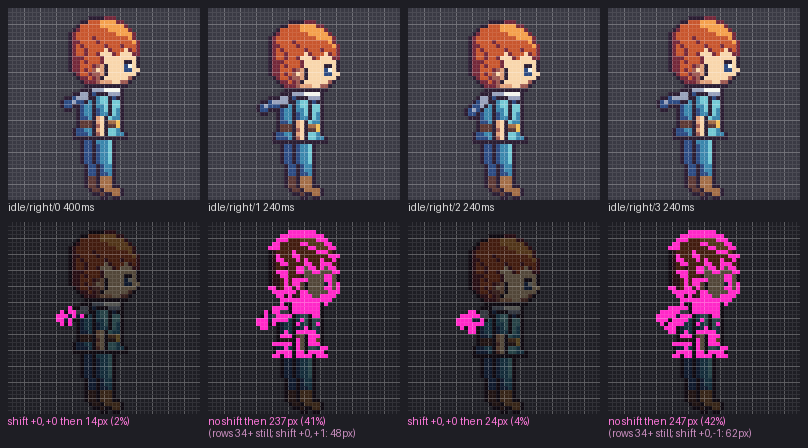
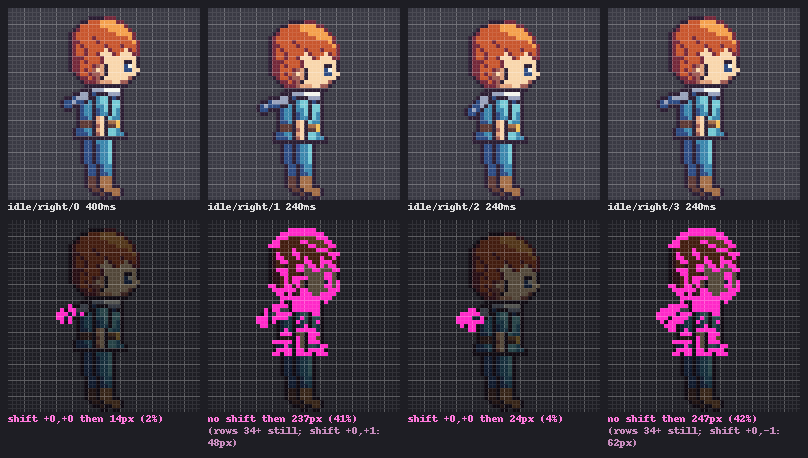
anim strip labels: wrapped to their cell, in a pixel font that shows the words
At --scale 4 a 24px frame's labels ran into the next cell, and Pillow's
small default FreeType face drew '(no shift: 260px)' as '(noshift 260px)'
(its spaces and colons vanish at that size), unlike the printed readout.
The strip now draws its labels in Pillow's pixel font, wrapped at spaces
(a word too wide is broken) to the cell's width, with the label rows as
tall as the most lines any cell needs.

examples/02-animation/idle.strip.png and walk.strip.png regenerated: same
pictures, the labels in the pixel font.

Claude-Session: https://claude.ai/code/session_01U2DhzndxMnGYv7oZQKWzyx

Changed region(s): [[0.0, 0.5, 0.9901, 1.0], [0.0, 0.0312, 0.9901, 0.4688]]

diff --git a/pxart.py b/pxart.py
@@ -855,7 +855,7 @@ ERROR CODES
   Frames of different sizes in one animation are allowed; check notes them.
 """
 import argparse, contextlib, csv, fnmatch, io, itertools, json, math, os, pathlib, re, shlex, string, sys, textwrap, unicodedata
-from PIL import Image, ImageChops, ImageDraw
+from PIL import Image, ImageChops, ImageDraw, ImageFont
 
 RECIPES = """RECIPES (pxart help recipes)
   Six workflows, end to end. Each runs as written from a folder holding the files it names;
@@ -1717,6 +1717,36 @@ def upscale(img, scale, grid=False, rulers=False):
     return out
 
 
+LINE_H = 12  # a strip label line: the pixel font's 11px and a pixel between
+
+
+def strip_font():
+    """anim's strip labels: Pillow's pixel font (its spaces and colons show at 1x, where the default's small
+    FreeType face draws '(no shift: 79px)' as '(noshift 79px)'); the default where Pillow has no pixel font."""
+    try:
+        return ImageFont.load_default_imagefont()
+    except AttributeError:
+        return ImageFont.load_default()
+
+
+def fit_lines(d, text, width, font):
+    """text in lines no wider than width px, broken at spaces (a word wider than that alone is broken where it must
+    be); [] for ''."""
+    lines = []
+    for word in text.split():
+        cand = f"{lines[-1]} {word}" if lines else word
+        if lines and d.textlength(cand, font=font) <= width:
+            lines[-1] = cand
+            continue
+        while d.textlength(word, font=font) > width and len(word) > 1:
+            n = max(1, max(k for k in range(1, len(word) + 1) if d.textlength(word[:k], font=font) <= width)
+                    if d.textlength(word[:1], font=font) <= width else 1)
+            lines.append(word[:n])
+            word = word[n:]
+        lines.append(word)
+    return lines
+
+
 def text_w(d, s):
     return int(d.textlength(s)) if hasattr(d, "textlength") else 6 * len(s)
 
@@ -2525,10 +2555,6 @@ def cmd_anim(a):
             canvas.alpha_composite(f.resize((w * 2, h * 2), Image.NEAREST), (w * S + gap * 2 + w, 0))  # 2x
             gif.append(canvas.convert("P", palette=Image.ADAPTIVE))
         save_image(gif[0], a.o, save_all=True, append_images=gif[1:], duration=durs, loop=0, disposal=2)
-        pad, lab, lab2 = 8, 14, 26
-        size = (pad + len(framed) * (w * S + pad), pad + 2 * (h * S + pad) + lab + lab2)
-        strip = Image.new("RGBA", size, (30, 30, 36, 255))
-        d = ImageDraw.Draw(strip)
     # Compare on a shared canvas, placed as drawn, so frames of different sizes diff too.
     clear = [fit(i, "#00000000") for i in range(len(frames))]
     pairs = [(clear[i - 1], clear[i], frames[i - 1].size == frames[i].size == (w, h) and may_wrap(clear[i - 1], clear[i]))
@@ -2541,6 +2567,7 @@ def cmd_anim(a):
         # frame whose shift would light them
         moves = [motion(*pairs[i][:2], wrap=pairs[i][2], legs=legs) if m[4] is None and m[:2] != (0, 0) and not m[5]
                  else m for i, m in enumerate(moves)]
+    cells = []  # per frame: (framed, what changed, its label, head, alt), for the strip
     for i, fr in enumerate(framed):
         prev, cur = pairs[i][:2]
         dx, dy, n_shift, n_none, still, wrapped = moves[i]
@@ -2558,17 +2585,28 @@ def cmd_anim(a):
             base, head = prev, f"no shift then {px(n_none)}"
             alt = f"(rows {still}+ still; shift {dx:+d},{dy:+d}: {n_shift}px)"
         print(f"  {its[i].label:24} {durs[i]:5}ms  vs {its[i - 1].label}: {head}" + (f" {alt}" if alt else ""))
-        if not a.o:
-            continue
-        x = pad + i * (w * S + pad)
-        strip.alpha_composite(upscale(fr, S, grid=True), (x, pad))
-        d.text((x, pad + h * S + 1), f"{its[i].label} {durs[i]}ms", fill=(220, 220, 220, 255))
-        y2 = pad * 2 + h * S + lab
-        strip.alpha_composite(upscale(on_bg(diff_frame(base, cur), w, h, "#1e1e24"), S, grid=True), (x, y2))
-        d.text((x, y2 + h * S + 1), head, fill=(255, 120, 220, 255))
-        d.text((x, y2 + h * S + 13), alt, fill=(200, 140, 190, 255))
+        cells.append((fr, diff_frame(base, cur), f"{its[i].label} {durs[i]}ms", head, alt))
     if not a.o:
         return
+    # the strip: frames over what changed, each cell's labels wrapped to its width in a pixel font that draws the
+    # readout's own words (its spaces and colons too), the label rows as tall as the most lines any cell needs
+    pad, font = 8, strip_font()
+    probe = ImageDraw.Draw(Image.new("RGBA", (1, 1)))
+    wrap = [[fit_lines(probe, t, w * S, font) for t in c[2:]] for c in cells]
+    n1, n2 = max(len(x[0]) for x in wrap), max(len(x[1]) + len(x[2]) for x in wrap)
+    size = (pad + len(cells) * (w * S + pad), pad + 2 * (h * S + pad) + (n1 + n2) * LINE_H + 2)
+    strip = Image.new("RGBA", size, (30, 30, 36, 255))
+    d = ImageDraw.Draw(strip)
+    for i, ((fr, changed, *_), (label, head, alt)) in enumerate(zip(cells, wrap)):
+        x = pad + i * (w * S + pad)
+        strip.alpha_composite(upscale(fr, S, grid=True), (x, pad))
+        for j, line in enumerate(label):
+            d.text((x, pad + h * S + 1 + j * LINE_H), line, font=font, fill=(220, 220, 220, 255))
+        y2 = pad * 2 + h * S + n1 * LINE_H
+        strip.alpha_composite(upscale(on_bg(changed, w, h, "#1e1e24"), S, grid=True), (x, y2))
+        for j, (line, color) in enumerate([(l, (255, 120, 220, 255)) for l in head]
+                                          + [(l, (200, 140, 190, 255)) for l in alt]):
+            d.text((x, y2 + h * S + 1 + j * LINE_H), line, font=font, fill=color)
     sp = pathlib.Path(a.o).with_suffix(".strip.png")
     save_image(strip, sp, "the strip")
     print("wrote", a.o, "and", sp)

diff --git a/tests/test_pxart.py b/tests/test_pxart.py
@@ -2124,7 +2124,9 @@ def test_big_upper_body_lift_is_unshifted(tmp_path):
 def test_strip_png_is_taller_for_the_second_label_line(tmp_path, capsys):
     anim_lines(tmp_path, capsys, BOB_0, BOB_1)
     strip = Image.open(tmp_path / "a.strip.png")
-    assert strip.height == 8 + 2 * (14 * 8 + 8) + 14 + 26
+    # the frame label, then the head and the '(no shift: ...)' line: at least three label lines
+    assert strip.height >= 8 + 2 * (14 * 8 + 8) + 3 * pxart.LINE_H + 2
+    assert (strip.height - (8 + 2 * (14 * 8 + 8)) - 2) % pxart.LINE_H == 0
 
 
 def test_help_documents_breathing_strip():
@@ -23594,3 +23596,94 @@ def test_keep_spacing_unit(tmp_path):
     doc.frames = [f for f in doc.frames if f.id != "a/0"]
     pxart.keep_spacing(doc, {("anim", "a"), ("frame", "a/0"), ("row", "a/0", 0)})
     assert doc.text() == "pxart 1\n@palette pal.px\n\n@anim b\n@frame b/0\nk\n"
+
+
+# ---------------------------------------------------------------- anim's strip labels: wrapped to the cell, the readout's words
+
+def strip_walk(tmp_path, w=24, h=8):
+    rows0 = ["." * w] * (h - 3) + ["." * 4 + "k" * (w - 8) + "." * 4] * 3
+    rows1 = ["." * w] * (h - 4) + ["." * 5 + "k" * (w - 8) + "." * 3] * 3 + ["." * w]
+    return write(tmp_path, "w.px", "k #000000\n@anim walk/down ms=100\n@frame walk/down/0\n" + "\n".join(rows0)
+                 + "\n@frame walk/down/1\n" + "\n".join(rows1) + "\n")
+
+
+def test_fit_lines_wraps_at_spaces():
+    d = pxart.ImageDraw.Draw(Image.new("RGBA", (1, 1)))
+    font = pxart.strip_font()
+    one = d.textlength("x", font=font)
+    assert pxart.fit_lines(d, "shift +1,+0 then 21px (17%)", one * 12, font) == ["shift +1,+0", "then 21px", "(17%)"]
+    assert pxart.fit_lines(d, "(no shift: 79px)", one * 16, font) == ["(no shift: 79px)"]
+    assert pxart.fit_lines(d, "", 100, font) == []
+    assert pxart.fit_lines(d, "a b", 1000, font) == ["a b"]
+
+
+def test_fit_lines_breaks_a_word_wider_than_the_cell():
+    d = pxart.ImageDraw.Draw(Image.new("RGBA", (1, 1)))
+    font = pxart.strip_font()
+    one = d.textlength("x", font=font)
+    got = pxart.fit_lines(d, "wick/walk/down/0 150ms", one * 6, font)
+    assert "".join(got[:-1]) == "wick/walk/down/0" and got[-1] == "150ms"
+    assert all(d.textlength(l, font=font) <= one * 6 for l in got)
+
+
+def test_fit_lines_never_wider_than_asked(tmp_path):
+    import random
+    d = pxart.ImageDraw.Draw(Image.new("RGBA", (1, 1)))
+    font = pxart.strip_font()
+    rng = random.Random(7)
+    for _ in range(200):
+        text = " ".join("".join(rng.choice("abc/:(),+-0123 ") for _ in range(rng.randrange(1, 14)))
+                        for _ in range(rng.randrange(1, 6)))
+        width = rng.randrange(8, 120)
+        lines = pxart.fit_lines(d, text, width, font)
+        one = d.textlength("x", font=font)
+        assert all(d.textlength(l, font=font) <= max(width, one) for l in lines), (text, width, lines)
+        assert "".join(lines).replace(" ", "") == text.replace(" ", "")
+
+
+def test_strip_labels_stay_inside_their_cells(tmp_path, capsys):
+    p = strip_walk(tmp_path)
+    out = tmp_path / "w.gif"
+    assert run("anim", f"{p}:walk/down", "--scale", "4", "-o", out) == 0
+    strip = Image.open(tmp_path / "w.strip.png").convert("RGBA")
+    w, S, pad = 24, 4, 8
+    for i in range(2):  # the gap between cells (and past the last) is backdrop in every label row
+        for x in range(pad + i * (w * S + pad) + w * S, pad + (i + 1) * (w * S + pad)):
+            for y in range(strip.height):
+                assert strip.getpixel((x, y)) == (30, 30, 36, 255), (x, y)
+
+
+def test_strip_labels_are_the_readouts_words(tmp_path, capsys, monkeypatch):
+    p = strip_walk(tmp_path)
+    drawn = []
+    real = pxart.ImageDraw.ImageDraw.text
+
+    def spy(self, xy, text, *args, **kw):
+        drawn.append(text)
+        return real(self, xy, text, *args, **kw)
+    monkeypatch.setattr(pxart.ImageDraw.ImageDraw, "text", spy)
+    assert run("anim", f"{p}:walk/down", "--scale", "4", "-o", tmp_path / "w.gif") == 0
+    printed = capsys.readouterr().out
+    words = " ".join(drawn)
+    assert "(no shift:" in words and "(noshift" not in words
+    for line in printed.splitlines()[:2]:
+        said = line.split(": ", 1)[1]
+        assert all(wd in words for wd in said.split())
+
+
+def test_strip_is_as_tall_as_its_labels_need(tmp_path, capsys):
+    p = strip_walk(tmp_path)
+    assert run("anim", f"{p}:walk/down", "--scale", "4", "-o", tmp_path / "a.gif") == 0
+    assert run("anim", f"{p}:walk/down", "--scale", "12", "-o", tmp_path / "b.gif") == 0
+    a, b = (Image.open(tmp_path / n) for n in ("a.strip.png", "b.strip.png"))
+    d = pxart.ImageDraw.Draw(Image.new("RGBA", (1, 1)))
+    font = pxart.strip_font()
+    lines_a = len(pxart.fit_lines(d, "walk/down/0 100ms", 24 * 4, font))
+    assert a.height >= 8 + 2 * (8 * 4 + 8) + (lines_a + 2) * pxart.LINE_H
+    assert b.height == 8 + 2 * (8 * 12 + 8) + 3 * pxart.LINE_H + 2  # wide cells: one line each
+
+
+def test_strip_font_is_a_pixel_font():
+    font = pxart.strip_font()
+    d = pxart.ImageDraw.Draw(Image.new("RGBA", (1, 1)))
+    assert d.textlength(" ", font=font) >= 4 and d.textlength(":", font=font) >= 4
